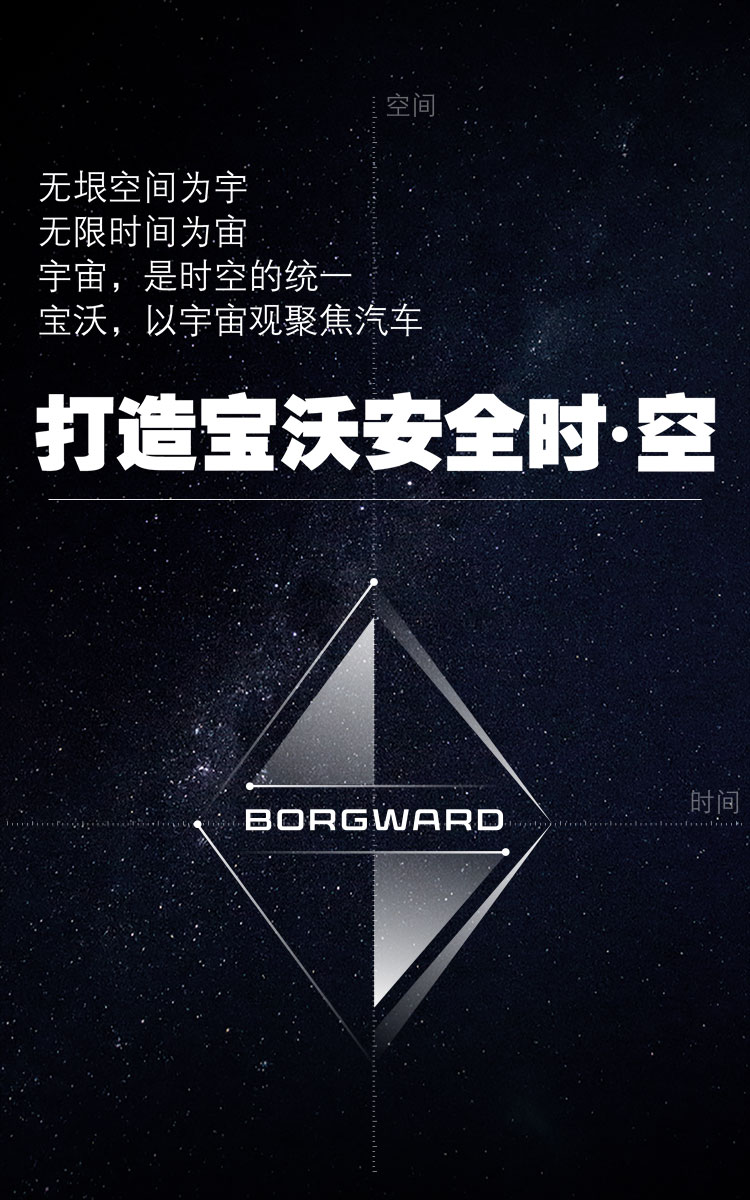
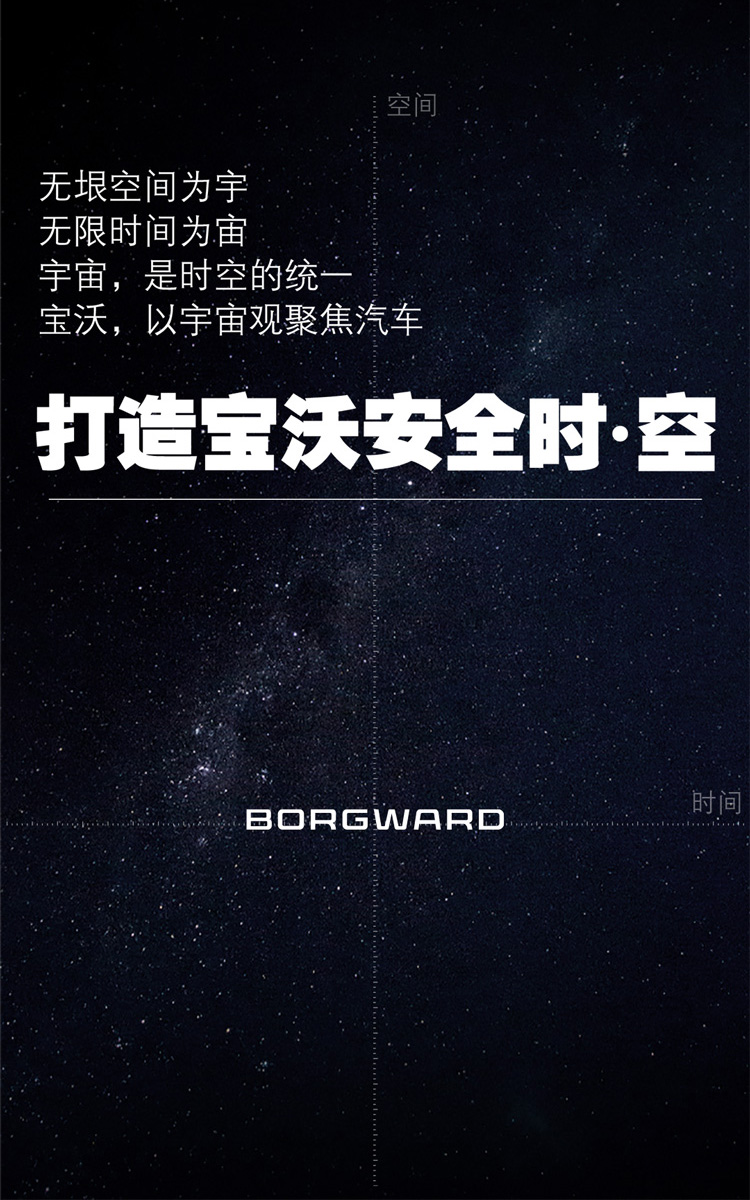
s20动画

diff --git a/public/index.html b/public/index.html
@@ -1,1 +1,1 @@
-<!DOCTYPE html><html><head><title>宝沃品牌圣经</title><meta charset="UTF-8"><meta name="viewport" content="width=device-width, initial-scale=1.0"><link rel="stylesheet" href="./assets/css/vendor/bootstrap.css"><link rel="stylesheet" href="./assets/css/vendor/video.css"><link rel="stylesheet" href="./assets/css/vendor/jquery.fancybox.css"><link rel="stylesheet" href="./assets/css/vendor/animate.css"><link rel="stylesheet" href="./assets/css/app.css"><script src="./assets/js/vendor/modernizr.3.5.0.js"></script><script src="./assets/js/vendor/detectizr.2.2.0.js"></script></head><body><header class="c-header"><div class="c-header__logo"><img src="./assets/img/header-logo.png"><div class="c-header__border"></div></div><div class="c-header__menu"><ul><li><a href="javascript:void(0);" data-url="1">中国新势力X-Force</a><span>／</span></li><li><a href="javascript:void(0);" data-url="2">宝沃的车主</a><span>／</span></li><li><a href="javascript:void(0);" data-url="3">宝沃安全未来</a></li></ul><div class="c-header__border"></div></div></header><div data-src="./assets/video/ecall.mp4" class="m-video pos-abs"></div><div class="flip-book js-flip-book"><section class="bg-lily-white"><img src="./assets/img/s1.jpg" class="l-w--100p"></section><section id="p2" class="bg-black"><div class="l-center"><img src="./assets/img/s-menu.jpg" class="l-w--100p"><img src="./assets/img/s-menu-x-force.png" class="pos-abs l-w--100p"><img src="./assets/img/x-force-text-1.png" class="flip-book-category-last-item flip-book-category-anim pos-abs"><img src="./assets/img/s-menu-text-2.png" class="flip-book-category-anim pos-abs l-w--100p"><img src="./assets/img/s-menu-text-3.png" class="flip-book-category-anim pos-abs l-w--100p"><img src="./assets/img/s-menu-text-4.png" class="flip-book-category-anim pos-abs l-w--100p"><img src="./assets/img/s-menu-text-5.png" class="flip-book-category-anim pos-abs l-w--100p"></div></section><section class="bg-lily-white"><img src="./assets/img/s3.jpg" class="l-w--100p l-center"></section><section class="bg-lily-white"><img src="./assets/img/s4.jpg" class="l-w--100p l-center"></section><section class="bg-lily-white"><img src="./assets/img/s5.jpg" class="l-w--100p l-center"></section><section id="p6" class="bg-lily-white"><img src="./assets/img/s6.jpg" class="l-w--100p l-center"><div class="flip-path"><div class="flip-ball-anim-1 flip-ball"><img src="./assets/img/s6-ball-2.png" class="l-w--100p"></div><div class="flip-ball-anim-2 flip-ball"><img src="./assets/img/s6-ball-2.png" class="l-w--100p"></div></div></section><section id="p7" class="bg-lily-white"><div class="l-center"><img src="./assets/img/s7.jpg" class="l-w--100p"></div></section><section class="bg-lily-white"><img src="./assets/img/s8.jpg" class="l-w--100p l-center"></section><section class="bg-lily-white"><img src="./assets/img/s9.jpg" class="l-w--100p l-center"></section><section class="bg-lily-white"><img src="./assets/img/s10.jpg" class="l-w--100p l-center"></section><section class="bg-lily-white"><a href="./assets/img/bw-system.jpg" class="fancybox flip-fancybox"><img src="./assets/img/s11.jpg" class="l-w--100p l-center"></a></section><section class="bg-lily-white"><img src="./assets/img/s12.jpg" class="l-w--100p l-center"></section><section class="bg-lily-white"><img src="./assets/img/s13.jpg" class="l-w--100p l-center"></section><section class="bg-lily-white"><img src="./assets/img/s14.jpg" class="l-w--100p l-center"></section><section id="p15" class="bg-black"><div class="l-center"><img src="./assets/img/s-menu.jpg" class="l-w--100p pos-abs"><img src="./assets/img/s-menu-x-force.png" class="pos-abs l-w--100p"><img src="./assets/img/s-menu-text-1.png" class="flip-book-category-anim l-w--100p"><img src="./assets/img/x-force-text-2.png" class="flip-book-category-last-item flip-book-category-anim pos-abs"><img src="./assets/img/s-menu-text-3.png" class="flip-book-category-anim pos-abs l-w--100p"><img src="./assets/img/s-menu-text-4.png" class="flip-book-category-anim pos-abs l-w--100p"><img src="./assets/img/s-menu-text-5.png" class="flip-book-category-anim pos-abs l-w--100p"></div></section><section class="bg-lily-white"><img src="./assets/img/s16.jpg" class="l-w--100p l-center"></section><section class="bg-lily-white"><img src="./assets/img/s17.jpg" class="l-w--100p l-center"></section><section class="bg-lily-white"><div class="l-center"><img src="./assets/img/s18.jpg" class="l-w--100p"><img src="./assets/img/s18-1.png" class="pos-abs l-w--100p flip-s18-anim flip-s18-anim--1"><img src="./assets/img/s18-2.png" class="pos-abs l-w--100p flip-s18-anim flip-s18-anim--2"><img src="./assets/img/s18-3.png" class="pos-abs l-w--100p flip-s18-anim flip-s18-anim--3"><img src="./assets/img/s18-4.png" class="pos-abs l-w--100p flip-s18-anim flip-s18-anim--4"><img src="./assets/img/s18-5.png" class="pos-abs l-w--100p flip-s18-anim flip-s18-anim--5"></div></section><section id="p19" class="bg-black"><div class="l-center"><img src="./assets/img/s-menu.jpg" class="l-w--100p"><img src="./assets/img/s-menu-x-force.png" class="pos-abs l-w--100p"><img src="./assets/img/s-menu-text-1.png" class="flip-book-category-anim pos-abs l-w--100p"><img src="./assets/img/s-menu-text-2.png" class="flip-book-category-anim pos-abs l-w--100p"><img src="./assets/img/x-force-text-3.png" class="flip-book-category-last-item flip-book-category-anim pos-abs"><img src="./assets/img/s-menu-text-4.png" class="flip-book-category-anim pos-abs l-w--100p"><img src="./assets/img/s-menu-text-5.png" class="flip-book-category-anim pos-abs l-w--100p"></div></section><section class="bg-black"><img src="./assets/img/s20.jpg" class="l-w--100p l-center"></section><section class="bg-lily-white"><img src="./assets/img/s21.jpg" class="l-w--100p l-center"></section><section class="bg-lily-white"><div class="l-center-60"><img src="./assets/img/s22-top.jpg" class="l-w--100p"><div class="flip-video pos-abs"><img src="./assets/img/s22-bottom.jpg" class="l-w--100p"><img src="./assets/img/play-btn.png" data-src="./assets/video/safe.mp4" class="js-m-video bw-video bw-video__btn--1 pos-abs"><img src="./assets/img/play-btn.png" data-src="./assets/video/0.12.mp4" class="js-m-video bw-video pos-abs bw-video__btn--2"><img src="./assets/img/play-btn.png" data-src="./assets/video/ecall.mp4" class="js-m-video bw-video pos-abs bw-video__btn--3"></div></div></section><section class="bg-lily-white"><div class="l-center-60"><img src="./assets/img/s23-top.jpg" class="l-w--100p"><div class="flip-video pos-abs"><img src="./assets/img/s23-bottom.jpg" class="l-w--100p"><img src="./assets/img/play-btn.png" data-src="./assets/video/1000.mp4" class="js-m-video bw-video pos-abs bw-video__btn--4"><img src="./assets/img/play-btn.png" data-src="./assets/video/79.mp4" class="js-m-video bw-video pos-abs bw-video__btn--5"><img src="./assets/img/play-btn.png" data-src="./assets/video/0.02.mp4" class="js-m-video bw-video pos-abs bw-video__btn--6"></div></div></section><section class="bg-lily-white"><img src="./assets/img/s24.jpg" class="l-w--100p"><img src="./assets/img/s24-1.png" class="pos-abs flip-book-anim-24-1 l-w--100p"><img src="./assets/img/s24-2.png" class="pos-abs flip-book-anim-24-2 l-w--100p"><img src="./assets/img/s24-3.png" class="pos-abs flip-book-anim-24-3 l-w--100p"><img src="./assets/img/s24-4.png" class="pos-abs flip-book-anim-24-4 l-w--100p"><img src="./assets/img/s24-5.png" class="pos-abs flip-book-anim-24-5 l-w--100p"></section><section class="bg-lily-white"><img src="./assets/img/s25.jpg" class="l-w--100p l-center"></section><section class="bg-lily-white"><img src="./assets/img/s26.jpg" class="l-w--100p l-center"></section><section class="bg-lily-white"><img src="./assets/img/s27.jpg" class="l-w--100p l-center"></section><section class="bg-lily-white"><img src="./assets/img/s28.jpg" class="l-w--100p l-center"></section><section class="bg-lily-white"><img src="./assets/img/s29.jpg" class="l-w--100p l-center"></section><section id="p30" class="bg-black"><div class="l-center"><img src="./assets/img/s-menu.jpg" class="l-w--100p"><img src="./assets/img/s-menu-x-force.png" class="pos-abs l-w--100p"><img src="./assets/img/s-menu-text-1.png" class="flip-book-category-anim pos-abs l-w--100p"><img src="./assets/img/s-menu-text-2.png" class="flip-book-category-anim pos-abs l-w--100p"><img src="./assets/img/s-menu-text-3.png" class="flip-book-category-anim pos-abs l-w--100p"><img src="./assets/img/x-force-text-4.png" class="flip-book-category-last-item flip-book-category-anim pos-abs"><img src="./assets/img/s-menu-text-5.png" class="flip-book-category-anim pos-abs l-w--100p"></div></section><section class="bg-lily-white"><div class="l-center"><img src="./assets/img/s31-bg.jpg" class="l-w--100p"><img src="./assets/img/s31-line-1.png" class="pos-abs l-w--100p flip-s31-anim2 flip-s31-anim2--2"><img src="./assets/img/s31-line-2.png" class="pos-abs l-w--100p flip-s31-anim1 flip-s31-anim1--5"><img src="./assets/img/s31-line-3.png" class="pos-abs l-w--100p flip-s31-anim2 flip-s31-anim2--8"><img src="./assets/img/s31-line-4.png" class="pos-abs l-w--100p flip-s31-anim1 flip-s31-anim1--11"><img src="./assets/img/s31-line-5.png" class="pos-abs l-w--100p flip-s31-anim2 flip-s31-anim2--14"><img src="./assets/img/s31-text-1.png" class="pos-abs l-w--100p flip-s31-anim flip-s31-anim--1"><img src="./assets/img/s31-text-2.png" class="pos-abs l-w--100p flip-s31-anim flip-s31-anim--4"><img src="./assets/img/s31-text-3.png" class="pos-abs l-w--100p flip-s31-anim flip-s31-anim--7"><img src="./assets/img/s31-text-4.png" class="pos-abs l-w--100p flip-s31-anim flip-s31-anim--10"><img src="./assets/img/s31-text-5.png" class="pos-abs l-w--100p flip-s31-anim flip-s31-anim--13"><img src="./assets/img/s31-c-1.png" class="pos-abs l-w--100p flip-s31-anim flip-s31-anim--3"><img src="./assets/img/s31-c-2.png" class="pos-abs l-w--100p flip-s31-anim flip-s31-anim--6"><img src="./assets/img/s31-c-3.png" class="pos-abs l-w--100p flip-s31-anim flip-s31-anim--9"><img src="./assets/img/s31-c-4.png" class="pos-abs l-w--100p flip-s31-anim flip-s31-anim--12"><img src="./assets/img/s31-c-5.png" class="pos-abs l-w--100p flip-s31-anim flip-s31-anim--15"></div></section><section class="bg-lily-white"><img src="./assets/img/s32.jpg" class="l-w--100p l-center"></section><section id="p33" class="bg-black"><div class="l-center"><img src="./assets/img/s-menu.jpg" class="l-w--100p"><img src="./assets/img/s-menu-x-force.png" class="pos-abs l-w--100p"><img src="./assets/img/s-menu-text-1.png" class="flip-book-category-anim pos-abs l-w--100p"><img src="./assets/img/s-menu-text-2.png" class="flip-book-category-anim pos-abs l-w--100p"><img src="./assets/img/s-menu-text-3.png" class="flip-book-category-anim pos-abs l-w--100p"><img src="./assets/img/s-menu-text-4.png" class="flip-book-category-anim pos-abs l-w--100p"><img src="./assets/img/x-force-text-5.png" class="flip-book-category-last-item flip-book-category-anim pos-abs"></div></section><section class="bg-grey"><img src="./assets/img/s34.jpg" class="l-w--100p l-center"></section><section class="bg-grey"><img src="./assets/img/s35.jpg" class="l-w--100p l-center"></section><section class="bg-grey"><img src="./assets/img/s36.jpg" class="l-w--100p l-center"></section><section class="bg-lily-white"><img src="./assets/img/s37.jpg" class="l-w--100p l-center"></section><section class="bg-lily-white"><a href="./assets/img/bw-system.jpg" class="fancybox flip-fancybox"><img src="./assets/img/s38.jpg" class="l-w--100p l-center"></a></section></div><div class="flip-icon js-flip-btn"></div></body><script src="./assets/js/vendor/jquery.js"></script><script src="./assets/js/vendor/jquery.fancybox.js"></script><script src="./assets/js/vendor/turn.js"></script><script src="./assets/js/vendor/video.js"></script><script src="./assets/js/app.js"></script></html>
+<!DOCTYPE html><html><head><title>宝沃品牌圣经</title><meta charset="UTF-8"><meta name="viewport" content="width=device-width, initial-scale=1.0"><link rel="stylesheet" href="./assets/css/vendor/bootstrap.css"><link rel="stylesheet" href="./assets/css/vendor/video.css"><link rel="stylesheet" href="./assets/css/vendor/jquery.fancybox.css"><link rel="stylesheet" href="./assets/css/vendor/animate.css"><link rel="stylesheet" href="./assets/css/app.css"><script src="./assets/js/vendor/modernizr.3.5.0.js"></script><script src="./assets/js/vendor/detectizr.2.2.0.js"></script></head><body><header class="c-header"><div class="c-header__logo"><img src="./assets/img/header-logo.png"><div class="c-header__border"></div></div><div class="c-header__menu"><ul><li><a href="javascript:void(0);" data-url="1">中国新势力X-Force</a><span>／</span></li><li><a href="javascript:void(0);" data-url="2">宝沃的车主</a><span>／</span></li><li><a href="javascript:void(0);" data-url="3">宝沃安全未来</a></li></ul><div class="c-header__border"></div></div></header><div data-src="./assets/video/ecall.mp4" class="m-video pos-abs"></div><div class="flip-book js-flip-book"><section class="bg-lily-white"><img src="./assets/img/s1.jpg" class="l-w--100p"></section><section id="p2" class="bg-black"><div class="l-center"><img src="./assets/img/s-menu.jpg" class="l-w--100p"><img src="./assets/img/s-menu-x-force.png" class="pos-abs l-w--100p"><img src="./assets/img/x-force-text-1.png" class="flip-book-category-last-item flip-book-category-anim pos-abs"><img src="./assets/img/s-menu-text-2.png" class="flip-book-category-anim pos-abs l-w--100p"><img src="./assets/img/s-menu-text-3.png" class="flip-book-category-anim pos-abs l-w--100p"><img src="./assets/img/s-menu-text-4.png" class="flip-book-category-anim pos-abs l-w--100p"><img src="./assets/img/s-menu-text-5.png" class="flip-book-category-anim pos-abs l-w--100p"></div></section><section class="bg-lily-white"><img src="./assets/img/s3.jpg" class="l-w--100p l-center"></section><section class="bg-lily-white"><img src="./assets/img/s4.jpg" class="l-w--100p l-center"></section><section class="bg-lily-white"><img src="./assets/img/s5.jpg" class="l-w--100p l-center"></section><section id="p6" class="bg-lily-white"><img src="./assets/img/s6.jpg" class="l-w--100p l-center"><div class="flip-path"><div class="flip-ball-anim-1 flip-ball"><img src="./assets/img/s6-ball-2.png" class="l-w--100p"></div><div class="flip-ball-anim-2 flip-ball"><img src="./assets/img/s6-ball-2.png" class="l-w--100p"></div></div></section><section id="p7" class="bg-lily-white"><div class="l-center"><img src="./assets/img/s7.jpg" class="l-w--100p"></div></section><section class="bg-lily-white"><img src="./assets/img/s8.jpg" class="l-w--100p l-center"></section><section class="bg-lily-white"><img src="./assets/img/s9.jpg" class="l-w--100p l-center"></section><section class="bg-lily-white"><img src="./assets/img/s10.jpg" class="l-w--100p l-center"></section><section class="bg-lily-white"><a href="./assets/img/bw-system.jpg" class="fancybox flip-fancybox"><img src="./assets/img/s11.jpg" class="l-w--100p l-center"></a></section><section class="bg-lily-white"><img src="./assets/img/s12.jpg" class="l-w--100p l-center"></section><section class="bg-lily-white"><img src="./assets/img/s13.jpg" class="l-w--100p l-center"></section><section class="bg-lily-white"><img src="./assets/img/s14.jpg" class="l-w--100p l-center"></section><section id="p15" class="bg-black"><div class="l-center"><img src="./assets/img/s-menu.jpg" class="l-w--100p pos-abs"><img src="./assets/img/s-menu-x-force.png" class="pos-abs l-w--100p"><img src="./assets/img/s-menu-text-1.png" class="flip-book-category-anim l-w--100p"><img src="./assets/img/x-force-text-2.png" class="flip-book-category-last-item flip-book-category-anim pos-abs"><img src="./assets/img/s-menu-text-3.png" class="flip-book-category-anim pos-abs l-w--100p"><img src="./assets/img/s-menu-text-4.png" class="flip-book-category-anim pos-abs l-w--100p"><img src="./assets/img/s-menu-text-5.png" class="flip-book-category-anim pos-abs l-w--100p"></div></section><section class="bg-lily-white"><img src="./assets/img/s16.jpg" class="l-w--100p l-center"></section><section class="bg-lily-white"><img src="./assets/img/s17.jpg" class="l-w--100p l-center"></section><section class="bg-lily-white"><div class="l-center"><img src="./assets/img/s18.jpg" class="l-w--100p"><img src="./assets/img/s18-1.png" class="pos-abs l-w--100p flip-s18-anim flip-s18-anim--1"><img src="./assets/img/s18-2.png" class="pos-abs l-w--100p flip-s18-anim flip-s18-anim--2"><img src="./assets/img/s18-3.png" class="pos-abs l-w--100p flip-s18-anim flip-s18-anim--3"><img src="./assets/img/s18-4.png" class="pos-abs l-w--100p flip-s18-anim flip-s18-anim--4"><img src="./assets/img/s18-5.png" class="pos-abs l-w--100p flip-s18-anim flip-s18-anim--5"></div></section><section id="p19" class="bg-black"><div class="l-center"><img src="./assets/img/s-menu.jpg" class="l-w--100p"><img src="./assets/img/s-menu-x-force.png" class="pos-abs l-w--100p"><img src="./assets/img/s-menu-text-1.png" class="flip-book-category-anim pos-abs l-w--100p"><img src="./assets/img/s-menu-text-2.png" class="flip-book-category-anim pos-abs l-w--100p"><img src="./assets/img/x-force-text-3.png" class="flip-book-category-last-item flip-book-category-anim pos-abs"><img src="./assets/img/s-menu-text-4.png" class="flip-book-category-anim pos-abs l-w--100p"><img src="./assets/img/s-menu-text-5.png" class="flip-book-category-anim pos-abs l-w--100p"></div></section><section id="p20" class="bg-black"><div class="l-center"><img src="./assets/img/s20.jpg" class="l-w--100p"><img src="./assets/img/s20-1.png" class="l-w--100p pos-abs flip-s20-anim-l"><img src="./assets/img/s20-2.png" class="l-w--100p pos-abs flip-s20-anim-r"><img src="./assets/img/s20-3.png" class="l-w--100p pos-abs flip-s20-anim-t"><img src="./assets/img/s20-4.png" class="l-w--100p pos-abs flip-s20-anim-b"></div></section><section class="bg-lily-white"><img src="./assets/img/s21.jpg" class="l-w--100p l-center"></section><section class="bg-lily-white"><div class="l-center-60"><img src="./assets/img/s22-top.jpg" class="l-w--100p"><div class="flip-video pos-abs"><img src="./assets/img/s22-bottom.jpg" class="l-w--100p"><img src="./assets/img/play-btn.png" data-src="./assets/video/safe.mp4" class="js-m-video bw-video bw-video__btn--1 pos-abs"><img src="./assets/img/play-btn.png" data-src="./assets/video/0.12.mp4" class="js-m-video bw-video pos-abs bw-video__btn--2"><img src="./assets/img/play-btn.png" data-src="./assets/video/ecall.mp4" class="js-m-video bw-video pos-abs bw-video__btn--3"></div></div></section><section class="bg-lily-white"><div class="l-center-60"><img src="./assets/img/s23-top.jpg" class="l-w--100p"><div class="flip-video pos-abs"><img src="./assets/img/s23-bottom.jpg" class="l-w--100p"><img src="./assets/img/play-btn.png" data-src="./assets/video/1000.mp4" class="js-m-video bw-video pos-abs bw-video__btn--4"><img src="./assets/img/play-btn.png" data-src="./assets/video/79.mp4" class="js-m-video bw-video pos-abs bw-video__btn--5"><img src="./assets/img/play-btn.png" data-src="./assets/video/0.02.mp4" class="js-m-video bw-video pos-abs bw-video__btn--6"></div></div></section><section class="bg-lily-white"><img src="./assets/img/s24.jpg" class="l-w--100p"><img src="./assets/img/s24-1.png" class="pos-abs flip-book-anim-24-1 l-w--100p"><img src="./assets/img/s24-2.png" class="pos-abs flip-book-anim-24-2 l-w--100p"><img src="./assets/img/s24-3.png" class="pos-abs flip-book-anim-24-3 l-w--100p"><img src="./assets/img/s24-4.png" class="pos-abs flip-book-anim-24-4 l-w--100p"><img src="./assets/img/s24-5.png" class="pos-abs flip-book-anim-24-5 l-w--100p"></section><section class="bg-lily-white"><img src="./assets/img/s25.jpg" class="l-w--100p l-center"></section><section class="bg-lily-white"><img src="./assets/img/s26.jpg" class="l-w--100p l-center"></section><section class="bg-lily-white"><img src="./assets/img/s27.jpg" class="l-w--100p l-center"></section><section class="bg-lily-white"><img src="./assets/img/s28.jpg" class="l-w--100p l-center"></section><section class="bg-lily-white"><img src="./assets/img/s29.jpg" class="l-w--100p l-center"></section><section id="p30" class="bg-black"><div class="l-center"><img src="./assets/img/s-menu.jpg" class="l-w--100p"><img src="./assets/img/s-menu-x-force.png" class="pos-abs l-w--100p"><img src="./assets/img/s-menu-text-1.png" class="flip-book-category-anim pos-abs l-w--100p"><img src="./assets/img/s-menu-text-2.png" class="flip-book-category-anim pos-abs l-w--100p"><img src="./assets/img/s-menu-text-3.png" class="flip-book-category-anim pos-abs l-w--100p"><img src="./assets/img/x-force-text-4.png" class="flip-book-category-last-item flip-book-category-anim pos-abs"><img src="./assets/img/s-menu-text-5.png" class="flip-book-category-anim pos-abs l-w--100p"></div></section><section class="bg-lily-white"><div class="l-center"><img src="./assets/img/s31-bg.jpg" class="l-w--100p"><img src="./assets/img/s31-line-1.png" class="pos-abs l-w--100p flip-s31-anim2 flip-s31-anim2--2"><img src="./assets/img/s31-line-2.png" class="pos-abs l-w--100p flip-s31-anim1 flip-s31-anim1--5"><img src="./assets/img/s31-line-3.png" class="pos-abs l-w--100p flip-s31-anim2 flip-s31-anim2--8"><img src="./assets/img/s31-line-4.png" class="pos-abs l-w--100p flip-s31-anim1 flip-s31-anim1--11"><img src="./assets/img/s31-line-5.png" class="pos-abs l-w--100p flip-s31-anim2 flip-s31-anim2--14"><img src="./assets/img/s31-text-1.png" class="pos-abs l-w--100p flip-s31-anim flip-s31-anim--1"><img src="./assets/img/s31-text-2.png" class="pos-abs l-w--100p flip-s31-anim flip-s31-anim--4"><img src="./assets/img/s31-text-3.png" class="pos-abs l-w--100p flip-s31-anim flip-s31-anim--7"><img src="./assets/img/s31-text-4.png" class="pos-abs l-w--100p flip-s31-anim flip-s31-anim--10"><img src="./assets/img/s31-text-5.png" class="pos-abs l-w--100p flip-s31-anim flip-s31-anim--13"><img src="./assets/img/s31-c-1.png" class="pos-abs l-w--100p flip-s31-anim flip-s31-anim--3"><img src="./assets/img/s31-c-2.png" class="pos-abs l-w--100p flip-s31-anim flip-s31-anim--6"><img src="./assets/img/s31-c-3.png" class="pos-abs l-w--100p flip-s31-anim flip-s31-anim--9"><img src="./assets/img/s31-c-4.png" class="pos-abs l-w--100p flip-s31-anim flip-s31-anim--12"><img src="./assets/img/s31-c-5.png" class="pos-abs l-w--100p flip-s31-anim flip-s31-anim--15"></div></section><section class="bg-lily-white"><img src="./assets/img/s32.jpg" class="l-w--100p l-center"></section><section id="p33" class="bg-black"><div class="l-center"><img src="./assets/img/s-menu.jpg" class="l-w--100p"><img src="./assets/img/s-menu-x-force.png" class="pos-abs l-w--100p"><img src="./assets/img/s-menu-text-1.png" class="flip-book-category-anim pos-abs l-w--100p"><img src="./assets/img/s-menu-text-2.png" class="flip-book-category-anim pos-abs l-w--100p"><img src="./assets/img/s-menu-text-3.png" class="flip-book-category-anim pos-abs l-w--100p"><img src="./assets/img/s-menu-text-4.png" class="flip-book-category-anim pos-abs l-w--100p"><img src="./assets/img/x-force-text-5.png" class="flip-book-category-last-item flip-book-category-anim pos-abs"></div></section><section class="bg-grey"><img src="./assets/img/s34.jpg" class="l-w--100p l-center"></section><section class="bg-grey"><img src="./assets/img/s35.jpg" class="l-w--100p l-center"></section><section class="bg-grey"><img src="./assets/img/s36.jpg" class="l-w--100p l-center"></section><section class="bg-lily-white"><img src="./assets/img/s37.jpg" class="l-w--100p l-center"></section><section class="bg-lily-white"><a href="./assets/img/bw-system.jpg" class="fancybox flip-fancybox"><img src="./assets/img/s38.jpg" class="l-w--100p l-center"></a></section></div><div class="flip-icon js-flip-btn"></div></body><script src="./assets/js/vendor/jquery.js"></script><script src="./assets/js/vendor/jquery.fancybox.js"></script><script src="./assets/js/vendor/turn.js"></script><script src="./assets/js/vendor/video.js"></script><script src="./assets/js/app.js"></script></html>

diff --git a/public/assets/css/app.css b/public/assets/css/app.css
@@ -754,6 +754,166 @@
     opacity: 1;
   }
 }
+@-moz-keyframes slideInLeft {
+  from {
+    transform: translate3d(-100%, 0, 0);
+    visibility: visible;
+  }
+  to {
+    transform: translate3d(0, 0, 0);
+    visibility: visible;
+  }
+}
+@-webkit-keyframes slideInLeft {
+  from {
+    transform: translate3d(-100%, 0, 0);
+    visibility: visible;
+  }
+  to {
+    transform: translate3d(0, 0, 0);
+    visibility: visible;
+  }
+}
+@-o-keyframes slideInLeft {
+  from {
+    transform: translate3d(-100%, 0, 0);
+    visibility: visible;
+  }
+  to {
+    transform: translate3d(0, 0, 0);
+    visibility: visible;
+  }
+}
+@keyframes slideInLeft {
+  from {
+    transform: translate3d(-100%, 0, 0);
+    visibility: visible;
+  }
+  to {
+    transform: translate3d(0, 0, 0);
+    visibility: visible;
+  }
+}
+@-moz-keyframes slideInRight {
+  from {
+    transform: translate3d(100%, 0, 0);
+    visibility: visible;
+  }
+  to {
+    transform: translate3d(0, 0, 0);
+    visibility: visible;
+  }
+}
+@-webkit-keyframes slideInRight {
+  from {
+    transform: translate3d(100%, 0, 0);
+    visibility: visible;
+  }
+  to {
+    transform: translate3d(0, 0, 0);
+    visibility: visible;
+  }
+}
+@-o-keyframes slideInRight {
+  from {
+    transform: translate3d(100%, 0, 0);
+    visibility: visible;
+  }
+  to {
+    transform: translate3d(0, 0, 0);
+    visibility: visible;
+  }
+}
+@keyframes slideInRight {
+  from {
+    transform: translate3d(100%, 0, 0);
+    visibility: visible;
+  }
+  to {
+    transform: translate3d(0, 0, 0);
+    visibility: visible;
+  }
+}
+@-moz-keyframes slideInUp {
+  from {
+    transform: translate3d(0, 100%, 0);
+    visibility: visible;
+  }
+  to {
+    transform: translate3d(0, 0, 0);
+    visibility: visible;
+  }
+}
+@-webkit-keyframes slideInUp {
+  from {
+    transform: translate3d(0, 100%, 0);
+    visibility: visible;
+  }
+  to {
+    transform: translate3d(0, 0, 0);
+    visibility: visible;
+  }
+}
+@-o-keyframes slideInUp {
+  from {
+    transform: translate3d(0, 100%, 0);
+    visibility: visible;
+  }
+  to {
+    transform: translate3d(0, 0, 0);
+    visibility: visible;
+  }
+}
+@keyframes slideInUp {
+  from {
+    transform: translate3d(0, 100%, 0);
+    visibility: visible;
+  }
+  to {
+    transform: translate3d(0, 0, 0);
+    visibility: visible;
+  }
+}
+@-moz-keyframes slideInDown {
+  from {
+    transform: translate3d(0, -100%, 0);
+    visibility: visible;
+  }
+  to {
+    transform: translate3d(0, 0, 0);
+    visibility: visible;
+  }
+}
+@-webkit-keyframes slideInDown {
+  from {
+    transform: translate3d(0, -100%, 0);
+    visibility: visible;
+  }
+  to {
+    transform: translate3d(0, 0, 0);
+    visibility: visible;
+  }
+}
+@-o-keyframes slideInDown {
+  from {
+    transform: translate3d(0, -100%, 0);
+    visibility: visible;
+  }
+  to {
+    transform: translate3d(0, 0, 0);
+    visibility: visible;
+  }
+}
+@keyframes slideInDown {
+  from {
+    transform: translate3d(0, -100%, 0);
+    visibility: visible;
+  }
+  to {
+    transform: translate3d(0, 0, 0);
+    visibility: visible;
+  }
+}
 @-moz-keyframes tada {
   from {
     -webkit-transform: scale3d(1, 1, 1);
@@ -1266,6 +1426,34 @@ li {
 .page-wrapper.active .flip-s18-anim--5 {
   animation-deplay: 1.8s;
   -webkit-animation-delay: 1.8s;
+}
+.page-wrapper.active .flip-s20-anim-l {
+  visibility: hidden;
+  animation: slideInLeft 0.5s forwards;
+  -webkit-animation: slideInLeft 0.5s forwards;
+  animation-delay: 0.7s;
+  -webkit-animation-delay: 0.7s;
+}
+.page-wrapper.active .flip-s20-anim-r {
+  visibility: hidden;
+  animation: slideInRight 0.5s forwards;
+  -webkit-animation: slideInRight 0.5s forwards;
+  animation-delay: 0.7s;
+  -webkit-animation-delay: 0.7s;
+}
+.page-wrapper.active .flip-s20-anim-t {
+  visibility: hidden;
+  animation: slideInDown 0.5s forwards;
+  -webkit-animation: slideInDown 0.5s forwards;
+  animation-delay: 0.7s;
+  -webkit-animation-delay: 0.7s;
+}
+.page-wrapper.active .flip-s20-anim-b {
+  visibility: hidden;
+  animation: slideInUp 0.5s forwards;
+  -webkit-animation: slideInUp 0.5s forwards;
+  animation-delay: 0.7s;
+  -webkit-animation-delay: 0.7s;
 }
 .c-header {
   position: absolute;
